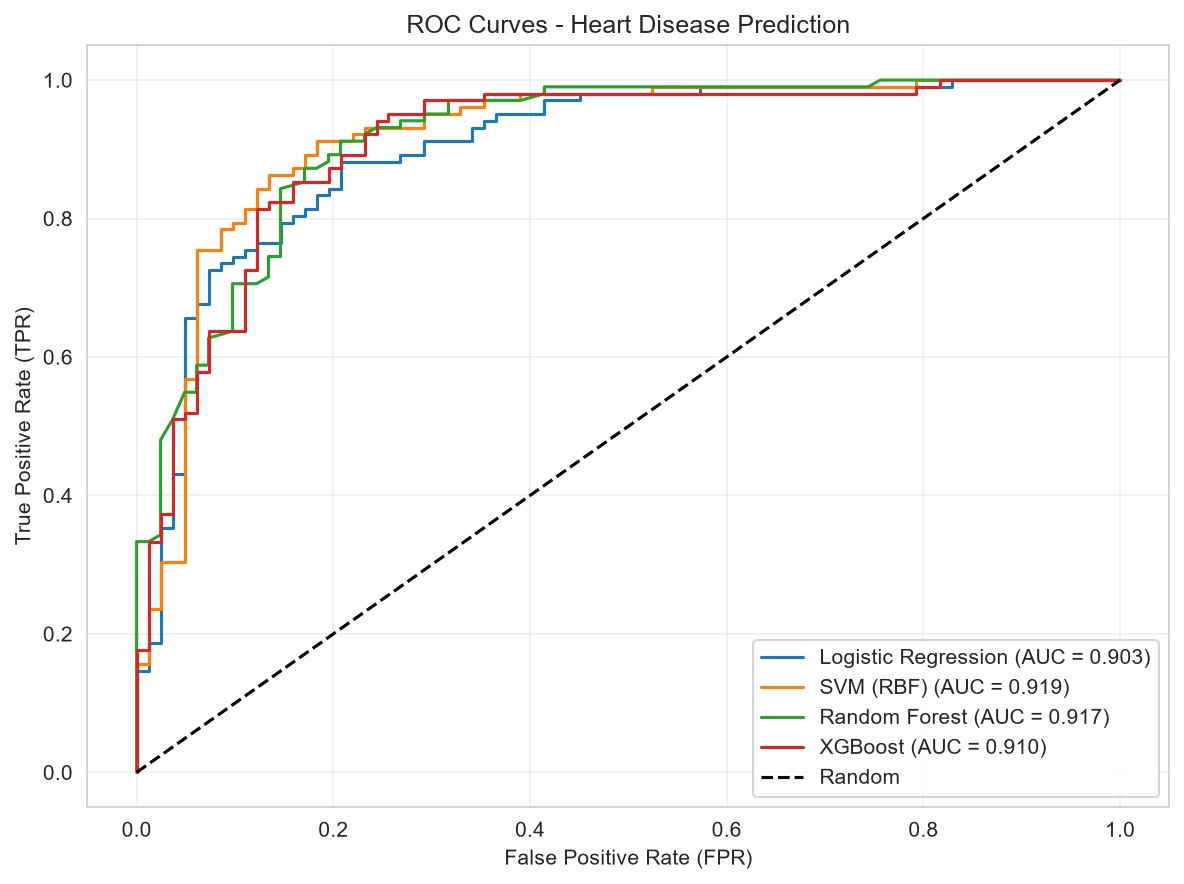
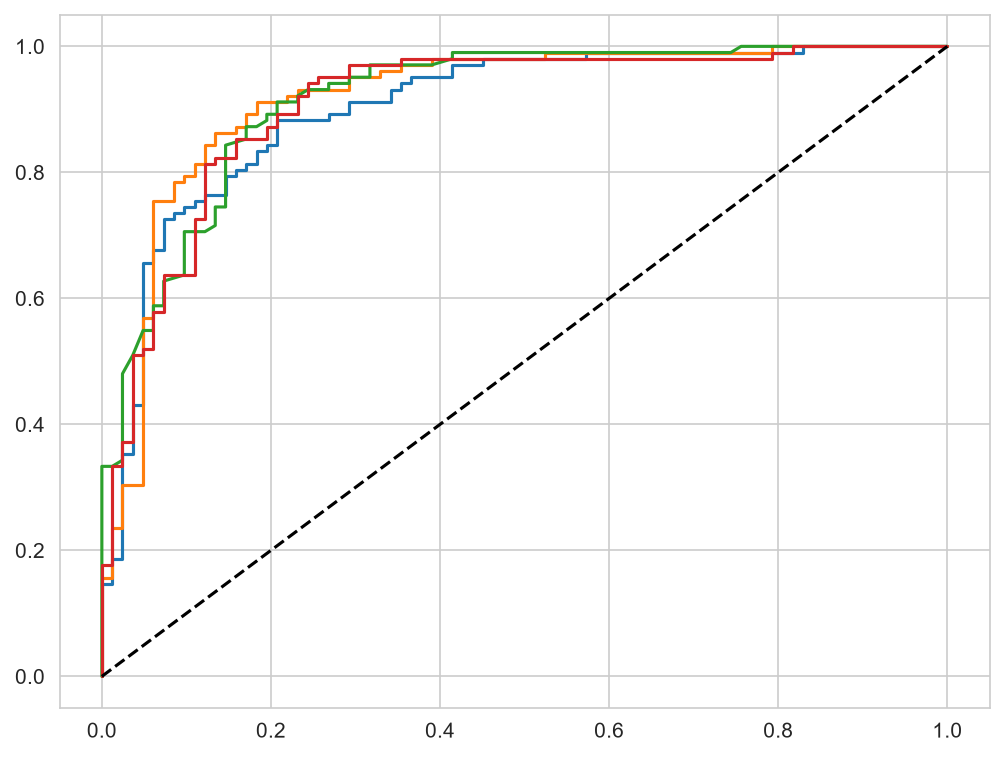
Add app preview screenshot and update visualizations

diff --git a/README.md b/README.md
@@ -12,6 +12,12 @@
 
 ---
 
+## 📸 App Preview
+
+![Heart Disease Predictor Screenshot](images/app_preview.png)
+
+---
+
 ## 🚀 Live Demo
 
 👉 **[Try the interactive app here](https://sawadogo-heart-disease.streamlit.app)**
@@ -124,6 +130,7 @@ CodeAlpha_HeartDiseasePrediction/
 ├── data/
 │   └── heart_disease_uci.csv        # Raw dataset (920 patients)
 ├── images/
+│   ├── app_preview.png              # Streamlit app screenshot
 │   ├── model_comparison.png
 │   ├── roc_curves.png
 │   ├── confusion_matrices.png
